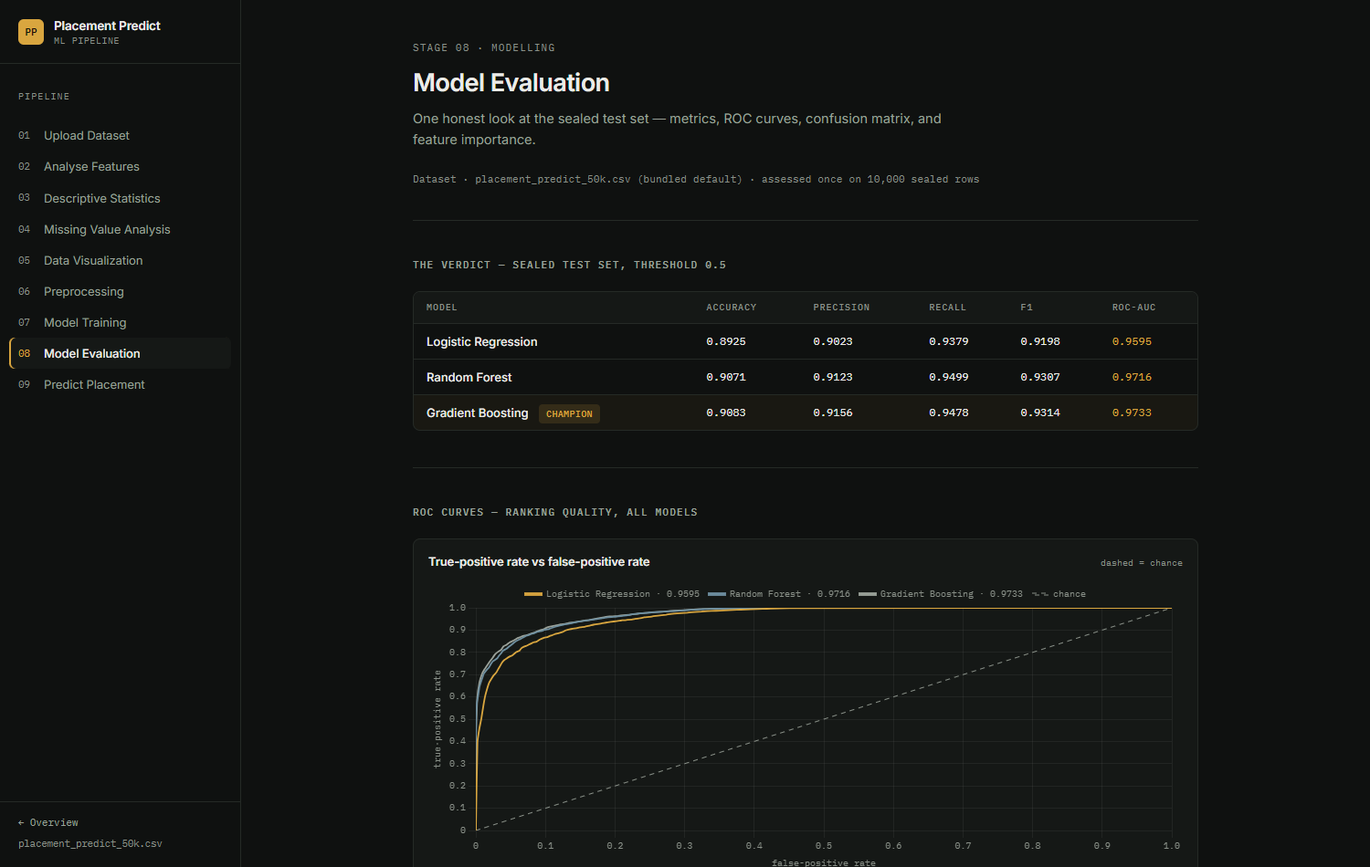
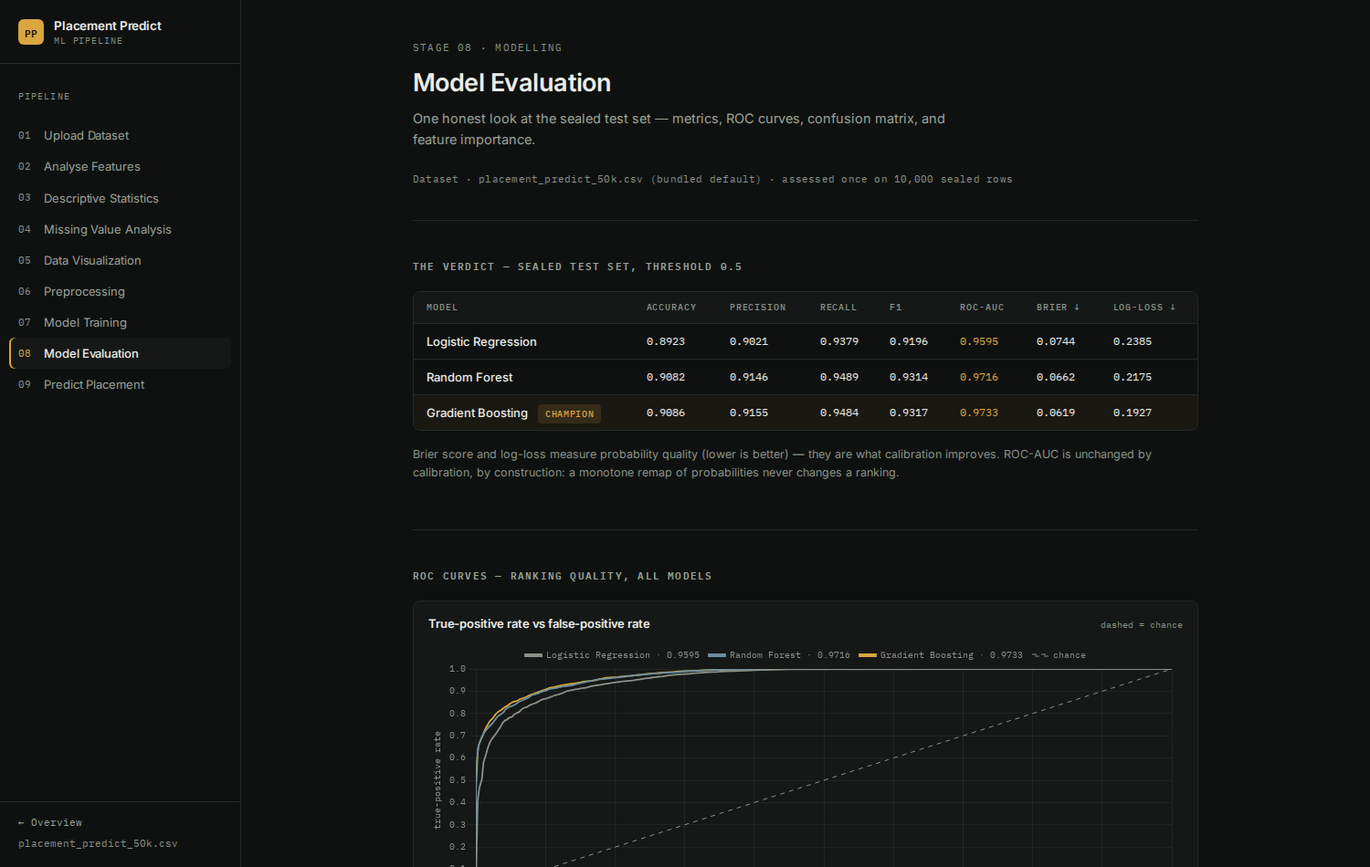
chore: refresh generated visuals [skip ci]

diff --git a/docs/train.html b/docs/train.html
@@ -237,7 +237,7 @@
               <td class="num">0.0744</td>
               <td class="num">0.2385</td>
               <td class="num dim">0.9638 ± 0.0022</td>
-              <td class="num dim">0.56s</td>
+              <td class="num dim">0.41s</td>
             </tr>
             
             <tr class="">
@@ -253,7 +253,7 @@
               <td class="num">0.0662</td>
               <td class="num">0.2175</td>
               <td class="num dim">0.9725 ± 0.0023</td>
-              <td class="num dim">27.82s</td>
+              <td class="num dim">6.44s</td>
             </tr>
             
             <tr class="champion-row">
@@ -269,7 +269,7 @@
               <td class="num">0.0619</td>
               <td class="num">0.1927</td>
               <td class="num dim">0.9726 ± 0.0025</td>
-              <td class="num dim">6.96s</td>
+              <td class="num dim">0.78s</td>
             </tr>
             
           </tbody>
@@ -338,7 +338,7 @@
     cvRows: 12000,
     split: {"test": 10000, "test_rate": 65.7, "train": 40000, "train_rate": 65.7},
     selectedKey: null,
-    models: [{"calibration": "Platt sigmoid \u00b7 3-fold out-of-fold", "confusion": {"fn": 408, "fp": 669, "tn": 2760, "tp": 6163}, "cv_auc_mean": 0.9638, "cv_auc_std": 0.0022, "key": "logistic_regression", "metrics": {"accuracy": 0.8923, "brier": 0.0744, "f1": 0.9196, "log_loss": 0.2385, "precision": 0.9021, "recall": 0.9379, "roc_auc": 0.9595}, "name": "Logistic Regression", "needs_scaling": true, "note": "interpretable linear baseline \u2014 the bar to beat", "reliability": {"bin_mid": [0.0201, 0.1478, 0.2486, 0.3511, 0.4483, 0.5513, 0.6513, 0.7508, 0.8509, 0.9853], "frac_pos": [0.0067, 0.1729, 0.268, 0.3833, 0.4352, 0.5244, 0.6493, 0.7532, 0.8605, 0.9798]}, "roc": {"fpr": [0.0, 0.0026, 0.0055, 0.0085, 0.0111, 0.014, 0.0169, 0.0198, 0.0227, 0.0262, 0.0295, 0.0324, 0.0353, 0.0382, 0.0414, 0.0449, 0.0481, 0.0525, 0.0551, 0.0583, 0.0624, 0.0656, 0.0685, 0.0726, 0.0761, 0.0799, 0.0866, 0.0913, 0.0942, 0.0983, 0.1024, 0.1053, 0.1085, 0.1123, 0.1161, 0.1199, 0.1239, 0.1272, 0.1309, 0.1344, 0.1403, 0.1464, 0.1496, 0.1554, 0.1598, 0.1645, 0.1677, 0.1726, 0.1776, 0.1837, 0.1887, 0.1969, 0.2053, 0.2106, 0.2181, 0.2248, 0.2304, 0.2368, 0.2426, 0.2499, 0.2552, 0.2625, 0.268, 0.2735, 0.2797, 0.2858, 0.294, 0.3077, 0.3138, 0.3243, 0.3342, 0.3444, 0.3529, 0.3677, 0.3785, 0.394, 0.4092, 0.4237, 0.45, 1.0], "tpr": [0.0, 0.3969, 0.4707, 0.5025, 0.582, 0.6092, 0.6427, 0.6667, 0.6847, 0.6982, 0.7122, 0.7256, 0.7396, 0.7559, 0.7676, 0.7729, 0.7812, 0.7863, 0.7955, 0.8011, 0.8073, 0.818, 0.8248, 0.8279, 0.835, 0.8404, 0.848, 0.856, 0.8614, 0.8652, 0.8684, 0.8717, 0.8758, 0.8801, 0.8834, 0.8872, 0.8909, 0.8953, 0.9006, 0.9029, 0.9067, 0.9093, 0.912, 0.9142, 0.9169, 0.9212, 0.9235, 0.9262, 0.9282, 0.9317, 0.9341, 0.9379, 0.9416, 0.944, 0.946, 0.9481, 0.9513, 0.9533, 0.9574, 0.9595, 0.9623, 0.9651, 0.9668, 0.9693, 0.972, 0.9741, 0.9763, 0.9784, 0.981, 0.9828, 0.9851, 0.9865, 0.9883, 0.99, 0.9916, 0.9933, 0.995, 0.9965, 0.9986, 1.0]}, "settings": "max_iter 2000 \u00b7 lbfgs", "train_time": 0.56}, {"calibration": "Platt sigmoid \u00b7 3-fold out-of-fold", "confusion": {"fn": 336, "fp": 582, "tn": 2847, "tp": 6235}, "cv_auc_mean": 0.9725, "cv_auc_std": 0.0023, "key": "random_forest", "metrics": {"accuracy": 0.9082, "brier": 0.0662, "f1": 0.9314, "log_loss": 0.2175, "precision": 0.9146, "recall": 0.9489, "roc_auc": 0.9716}, "name": "Random Forest", "needs_scaling": false, "note": "deep decorrelated trees \u2014 averages away variance", "reliability": {"bin_mid": [0.0279, 0.1492, 0.2506, 0.3483, 0.4545, 0.5561, 0.6518, 0.7522, 0.8595, 0.9688], "frac_pos": [0.0246, 0.2763, 0.3372, 0.4046, 0.4309, 0.5637, 0.5362, 0.6286, 0.7636, 0.9723]}, "roc": {"fpr": [0.0, 0.0003, 0.0003, 0.0017, 0.0029, 0.0044, 0.007, 0.0096, 0.0131, 0.0181, 0.023, 0.0262, 0.028, 0.0312, 0.0356, 0.0402, 0.0423, 0.0464, 0.054, 0.0589, 0.0627, 0.0682, 0.0729, 0.0749, 0.0782, 0.0817, 0.0887, 0.093, 0.0994, 0.105, 0.112, 0.119, 0.1257, 0.1336, 0.1388, 0.1438, 0.1505, 0.1572, 0.1639, 0.1697, 0.1764, 0.1861, 0.1919, 0.1998, 0.2071, 0.2135, 0.2164, 0.2228, 0.2298, 0.2374, 0.2438, 0.2488, 0.2555, 0.2631, 0.2698, 0.2779, 0.284, 0.2861, 0.2925, 0.3001, 0.3071, 0.3138, 0.319, 0.3269, 0.3351, 0.3424, 0.3523, 0.3605, 0.3663, 0.3782, 0.3873, 0.3952, 0.4071, 0.4197, 0.4325, 0.4447, 0.4579, 0.48, 0.5244, 1.0], "tpr": [0.0, 0.4518, 0.5494, 0.5958, 0.6294, 0.6588, 0.6832, 0.7014, 0.7198, 0.7375, 0.7524, 0.7656, 0.7729, 0.7863, 0.7958, 0.8072, 0.8168, 0.8277, 0.8361, 0.8452, 0.8534, 0.8609, 0.867, 0.8699, 0.8775, 0.8843, 0.8895, 0.8959, 0.9021, 0.9087, 0.9128, 0.9169, 0.9213, 0.9247, 0.9271, 0.9314, 0.9361, 0.9414, 0.9451, 0.9489, 0.9536, 0.9551, 0.9575, 0.9607, 0.9629, 0.9648, 0.9667, 0.9693, 0.9714, 0.9738, 0.976, 0.9769, 0.9795, 0.9802, 0.9828, 0.9839, 0.9851, 0.9855, 0.9866, 0.9887, 0.99, 0.9909, 0.9918, 0.9933, 0.9948, 0.9957, 0.9962, 0.997, 0.9977, 0.9982, 0.9985, 0.9985, 0.9988, 0.9991, 0.9995, 0.9997, 0.9997, 1.0, 1.0, 1.0]}, "settings": "150 trees \u00b7 n_jobs 2", "train_time": 27.82}, {"calibration": "Platt sigmoid \u00b7 3-fold out-of-fold", "confusion": {"fn": 339, "fp": 575, "tn": 2854, "tp": 6232}, "cv_auc_mean": 0.9726, "cv_auc_std": 0.0025, "key": "gradient_boosting", "metrics": {"accuracy": 0.9086, "brier": 0.0619, "f1": 0.9317, "log_loss": 0.1927, "precision": 0.9155, "recall": 0.9484, "roc_auc": 0.9733}, "name": "Gradient Boosting", "needs_scaling": false, "note": "shallow sequential trees \u2014 corrects residual bias", "reliability": {"bin_mid": [0.0125, 0.1469, 0.2532, 0.3522, 0.4497, 0.5521, 0.6508, 0.7553, 0.8507, 0.9876], "frac_pos": [0.0087, 0.1618, 0.2822, 0.3726, 0.43, 0.4884, 0.6481, 0.7146, 0.8561, 0.9877]}, "roc": {"fpr": [0.0, 0.0, 0.0, 0.0, 0.0, 0.0, 0.0, 0.0, 0.0, 0.0, 0.0, 0.0, 0.0, 0.0, 0.0, 0.0032, 0.0064, 0.0099, 0.0131, 0.0166, 0.0204, 0.0245, 0.0277, 0.0318, 0.0356, 0.04, 0.044, 0.0478, 0.0513, 0.0557, 0.0601, 0.0633, 0.0694, 0.0735, 0.0779, 0.0834, 0.0878, 0.0927, 0.0965, 0.1024, 0.1062, 0.1132, 0.1178, 0.1239, 0.1315, 0.1385, 0.1444, 0.1508, 0.1575, 0.1648, 0.1724, 0.1773, 0.1826, 0.1913, 0.2044, 0.212, 0.2237, 0.2313, 0.2377, 0.2435, 0.2546, 0.2622, 0.2686, 0.2811, 0.2908, 0.3085, 0.3255, 0.3465, 0.3739, 0.4433, 0.6655, 0.7343, 0.7991, 0.8434, 0.8714, 0.8962, 0.923, 0.9536, 0.974, 1.0], "tpr": [0.0, 0.0173, 0.0321, 0.0479, 0.058, 0.0706, 0.0899, 0.1032, 0.1182, 0.1354, 0.1558, 0.1765, 0.217, 0.2887, 0.4497, 0.6454, 0.6763, 0.7013, 0.727, 0.7468, 0.7664, 0.7793, 0.7935, 0.8067, 0.8139, 0.8245, 0.8327, 0.8401, 0.8484, 0.8538, 0.8577, 0.8646, 0.8708, 0.876, 0.883, 0.8888, 0.8944, 0.8996, 0.9044, 0.9101, 0.9157, 0.9187, 0.9228, 0.927, 0.9306, 0.9341, 0.9362, 0.9405, 0.944, 0.9463, 0.9496, 0.9545, 0.9578, 0.9612, 0.9638, 0.9671, 0.9697, 0.9723, 0.9743, 0.9773, 0.9801, 0.982, 0.984, 0.986, 0.989, 0.9915, 0.9938, 0.9959, 0.9977, 0.9995, 1.0, 1.0, 1.0, 1.0, 1.0, 1.0, 1.0, 1.0, 1.0, 1.0]}, "settings": "default depth \u00b7 lr 0.1", "train_time": 6.96}]
+    models: [{"calibration": "Platt sigmoid \u00b7 3-fold out-of-fold", "confusion": {"fn": 408, "fp": 669, "tn": 2760, "tp": 6163}, "cv_auc_mean": 0.9638, "cv_auc_std": 0.0022, "key": "logistic_regression", "metrics": {"accuracy": 0.8923, "brier": 0.0744, "f1": 0.9196, "log_loss": 0.2385, "precision": 0.9021, "recall": 0.9379, "roc_auc": 0.9595}, "name": "Logistic Regression", "needs_scaling": true, "note": "interpretable linear baseline \u2014 the bar to beat", "reliability": {"bin_mid": [0.0201, 0.1478, 0.2486, 0.3511, 0.4483, 0.5513, 0.6513, 0.7508, 0.8509, 0.9853], "frac_pos": [0.0067, 0.1729, 0.268, 0.3833, 0.4352, 0.5244, 0.6493, 0.7532, 0.8605, 0.9798]}, "roc": {"fpr": [0.0, 0.0026, 0.0055, 0.0085, 0.0111, 0.014, 0.0169, 0.0198, 0.0227, 0.0262, 0.0295, 0.0324, 0.0353, 0.0382, 0.0414, 0.0449, 0.0481, 0.0525, 0.0551, 0.0583, 0.0624, 0.0656, 0.0685, 0.0726, 0.0761, 0.0799, 0.0866, 0.0913, 0.0942, 0.0983, 0.1024, 0.1053, 0.1085, 0.1123, 0.1161, 0.1199, 0.1239, 0.1272, 0.1309, 0.1344, 0.1403, 0.1464, 0.1496, 0.1554, 0.1598, 0.1645, 0.1677, 0.1726, 0.1776, 0.1837, 0.1887, 0.1969, 0.2053, 0.2106, 0.2181, 0.2248, 0.2304, 0.2368, 0.2426, 0.2499, 0.2552, 0.2625, 0.268, 0.2735, 0.2797, 0.2858, 0.294, 0.3077, 0.3138, 0.3243, 0.3342, 0.3444, 0.3529, 0.3677, 0.3785, 0.394, 0.4092, 0.4237, 0.45, 1.0], "tpr": [0.0, 0.3969, 0.4707, 0.5025, 0.582, 0.6092, 0.6427, 0.6667, 0.6847, 0.6982, 0.7122, 0.7256, 0.7396, 0.7559, 0.7676, 0.7729, 0.7812, 0.7863, 0.7955, 0.8011, 0.8073, 0.818, 0.8248, 0.8279, 0.835, 0.8404, 0.848, 0.856, 0.8614, 0.8652, 0.8684, 0.8717, 0.8758, 0.8801, 0.8834, 0.8872, 0.8909, 0.8953, 0.9006, 0.9029, 0.9067, 0.9093, 0.912, 0.9142, 0.9169, 0.9212, 0.9235, 0.9262, 0.9282, 0.9317, 0.9341, 0.9379, 0.9416, 0.944, 0.946, 0.9481, 0.9513, 0.9533, 0.9574, 0.9595, 0.9623, 0.9651, 0.9668, 0.9693, 0.972, 0.9741, 0.9763, 0.9784, 0.981, 0.9828, 0.9851, 0.9865, 0.9883, 0.99, 0.9916, 0.9933, 0.995, 0.9965, 0.9986, 1.0]}, "settings": "max_iter 2000 \u00b7 lbfgs", "train_time": 0.41}, {"calibration": "Platt sigmoid \u00b7 3-fold out-of-fold", "confusion": {"fn": 336, "fp": 582, "tn": 2847, "tp": 6235}, "cv_auc_mean": 0.9725, "cv_auc_std": 0.0023, "key": "random_forest", "metrics": {"accuracy": 0.9082, "brier": 0.0662, "f1": 0.9314, "log_loss": 0.2175, "precision": 0.9146, "recall": 0.9489, "roc_auc": 0.9716}, "name": "Random Forest", "needs_scaling": false, "note": "deep decorrelated trees \u2014 averages away variance", "reliability": {"bin_mid": [0.0279, 0.1492, 0.2506, 0.3483, 0.4545, 0.5561, 0.6518, 0.7522, 0.8595, 0.9688], "frac_pos": [0.0246, 0.2763, 0.3372, 0.4046, 0.4309, 0.5637, 0.5362, 0.6286, 0.7636, 0.9723]}, "roc": {"fpr": [0.0, 0.0003, 0.0003, 0.0017, 0.0029, 0.0044, 0.007, 0.0096, 0.0131, 0.0181, 0.023, 0.0262, 0.028, 0.0312, 0.0356, 0.0402, 0.0423, 0.0464, 0.054, 0.0589, 0.0627, 0.0682, 0.0729, 0.0749, 0.0782, 0.0817, 0.0887, 0.093, 0.0994, 0.105, 0.112, 0.119, 0.1257, 0.1336, 0.1388, 0.1438, 0.1505, 0.1572, 0.1639, 0.1697, 0.1764, 0.1861, 0.1919, 0.1998, 0.2071, 0.2135, 0.2164, 0.2228, 0.2298, 0.2374, 0.2438, 0.2488, 0.2555, 0.2631, 0.2698, 0.2779, 0.284, 0.2861, 0.2925, 0.3001, 0.3071, 0.3138, 0.319, 0.3269, 0.3351, 0.3424, 0.3523, 0.3605, 0.3663, 0.3782, 0.3873, 0.3952, 0.4071, 0.4197, 0.4325, 0.4447, 0.4579, 0.48, 0.5244, 1.0], "tpr": [0.0, 0.4518, 0.5494, 0.5958, 0.6294, 0.6588, 0.6832, 0.7014, 0.7198, 0.7375, 0.7524, 0.7656, 0.7729, 0.7863, 0.7958, 0.8072, 0.8168, 0.8277, 0.8361, 0.8452, 0.8534, 0.8609, 0.867, 0.8699, 0.8775, 0.8843, 0.8895, 0.8959, 0.9021, 0.9087, 0.9128, 0.9169, 0.9213, 0.9247, 0.9271, 0.9314, 0.9361, 0.9414, 0.9451, 0.9489, 0.9536, 0.9551, 0.9575, 0.9607, 0.9629, 0.9648, 0.9667, 0.9693, 0.9714, 0.9738, 0.976, 0.9769, 0.9795, 0.9802, 0.9828, 0.9839, 0.9851, 0.9855, 0.9866, 0.9887, 0.99, 0.9909, 0.9918, 0.9933, 0.9948, 0.9957, 0.9962, 0.997, 0.9977, 0.9982, 0.9985, 0.9985, 0.9988, 0.9991, 0.9995, 0.9997, 0.9997, 1.0, 1.0, 1.0]}, "settings": "150 trees \u00b7 n_jobs 2", "train_time": 6.44}, {"calibration": "Platt sigmoid \u00b7 3-fold out-of-fold", "confusion": {"fn": 339, "fp": 575, "tn": 2854, "tp": 6232}, "cv_auc_mean": 0.9726, "cv_auc_std": 0.0025, "key": "gradient_boosting", "metrics": {"accuracy": 0.9086, "brier": 0.0619, "f1": 0.9317, "log_loss": 0.1927, "precision": 0.9155, "recall": 0.9484, "roc_auc": 0.9733}, "name": "Gradient Boosting", "needs_scaling": false, "note": "shallow sequential trees \u2014 corrects residual bias", "reliability": {"bin_mid": [0.0125, 0.1469, 0.2532, 0.3522, 0.4497, 0.5521, 0.6508, 0.7553, 0.8507, 0.9876], "frac_pos": [0.0087, 0.1618, 0.2822, 0.3726, 0.43, 0.4884, 0.6481, 0.7146, 0.8561, 0.9877]}, "roc": {"fpr": [0.0, 0.0, 0.0, 0.0, 0.0, 0.0, 0.0, 0.0, 0.0, 0.0, 0.0, 0.0, 0.0, 0.0, 0.0, 0.0032, 0.0064, 0.0099, 0.0131, 0.0166, 0.0204, 0.0245, 0.0277, 0.0318, 0.0356, 0.04, 0.044, 0.0478, 0.0513, 0.0557, 0.0601, 0.0633, 0.0694, 0.0735, 0.0779, 0.0834, 0.0878, 0.0927, 0.0965, 0.1024, 0.1062, 0.1132, 0.1178, 0.1239, 0.1315, 0.1385, 0.1444, 0.1508, 0.1575, 0.1648, 0.1724, 0.1773, 0.1826, 0.1913, 0.2044, 0.212, 0.2237, 0.2313, 0.2377, 0.2435, 0.2546, 0.2622, 0.2686, 0.2811, 0.2908, 0.3085, 0.3255, 0.3465, 0.3739, 0.4433, 0.6655, 0.7343, 0.7991, 0.8434, 0.8714, 0.8962, 0.923, 0.9536, 0.974, 1.0], "tpr": [0.0, 0.0173, 0.0321, 0.0479, 0.058, 0.0706, 0.0899, 0.1032, 0.1182, 0.1354, 0.1558, 0.1765, 0.217, 0.2887, 0.4497, 0.6454, 0.6763, 0.7013, 0.727, 0.7468, 0.7664, 0.7793, 0.7935, 0.8067, 0.8139, 0.8245, 0.8327, 0.8401, 0.8484, 0.8538, 0.8577, 0.8646, 0.8708, 0.876, 0.883, 0.8888, 0.8944, 0.8996, 0.9044, 0.9101, 0.9157, 0.9187, 0.9228, 0.927, 0.9306, 0.9341, 0.9362, 0.9405, 0.944, 0.9463, 0.9496, 0.9545, 0.9578, 0.9612, 0.9638, 0.9671, 0.9697, 0.9723, 0.9743, 0.9773, 0.9801, 0.982, 0.984, 0.986, 0.989, 0.9915, 0.9938, 0.9959, 0.9977, 0.9995, 1.0, 1.0, 1.0, 1.0, 1.0, 1.0, 1.0, 1.0, 1.0, 1.0]}, "settings": "default depth \u00b7 lr 0.1", "train_time": 0.78}]
   };
 </script>
 <script src="static/js/charts.js"></script>

diff --git a/docs/evaluate.html b/docs/evaluate.html
@@ -297,7 +297,7 @@
 <script src="https://cdn.jsdelivr.net/npm/chart.js@4.4.3/dist/chart.umd.min.js"></script>
 <script>
   window.EDA = {
-    models: [{"calibration": "Platt sigmoid \u00b7 3-fold out-of-fold", "confusion": {"fn": 408, "fp": 669, "tn": 2760, "tp": 6163}, "cv_auc_mean": 0.9638, "cv_auc_std": 0.0022, "key": "logistic_regression", "metrics": {"accuracy": 0.8923, "brier": 0.0744, "f1": 0.9196, "log_loss": 0.2385, "precision": 0.9021, "recall": 0.9379, "roc_auc": 0.9595}, "name": "Logistic Regression", "needs_scaling": true, "note": "interpretable linear baseline \u2014 the bar to beat", "reliability": {"bin_mid": [0.0201, 0.1478, 0.2486, 0.3511, 0.4483, 0.5513, 0.6513, 0.7508, 0.8509, 0.9853], "frac_pos": [0.0067, 0.1729, 0.268, 0.3833, 0.4352, 0.5244, 0.6493, 0.7532, 0.8605, 0.9798]}, "roc": {"fpr": [0.0, 0.0026, 0.0055, 0.0085, 0.0111, 0.014, 0.0169, 0.0198, 0.0227, 0.0262, 0.0295, 0.0324, 0.0353, 0.0382, 0.0414, 0.0449, 0.0481, 0.0525, 0.0551, 0.0583, 0.0624, 0.0656, 0.0685, 0.0726, 0.0761, 0.0799, 0.0866, 0.0913, 0.0942, 0.0983, 0.1024, 0.1053, 0.1085, 0.1123, 0.1161, 0.1199, 0.1239, 0.1272, 0.1309, 0.1344, 0.1403, 0.1464, 0.1496, 0.1554, 0.1598, 0.1645, 0.1677, 0.1726, 0.1776, 0.1837, 0.1887, 0.1969, 0.2053, 0.2106, 0.2181, 0.2248, 0.2304, 0.2368, 0.2426, 0.2499, 0.2552, 0.2625, 0.268, 0.2735, 0.2797, 0.2858, 0.294, 0.3077, 0.3138, 0.3243, 0.3342, 0.3444, 0.3529, 0.3677, 0.3785, 0.394, 0.4092, 0.4237, 0.45, 1.0], "tpr": [0.0, 0.3969, 0.4707, 0.5025, 0.582, 0.6092, 0.6427, 0.6667, 0.6847, 0.6982, 0.7122, 0.7256, 0.7396, 0.7559, 0.7676, 0.7729, 0.7812, 0.7863, 0.7955, 0.8011, 0.8073, 0.818, 0.8248, 0.8279, 0.835, 0.8404, 0.848, 0.856, 0.8614, 0.8652, 0.8684, 0.8717, 0.8758, 0.8801, 0.8834, 0.8872, 0.8909, 0.8953, 0.9006, 0.9029, 0.9067, 0.9093, 0.912, 0.9142, 0.9169, 0.9212, 0.9235, 0.9262, 0.9282, 0.9317, 0.9341, 0.9379, 0.9416, 0.944, 0.946, 0.9481, 0.9513, 0.9533, 0.9574, 0.9595, 0.9623, 0.9651, 0.9668, 0.9693, 0.972, 0.9741, 0.9763, 0.9784, 0.981, 0.9828, 0.9851, 0.9865, 0.9883, 0.99, 0.9916, 0.9933, 0.995, 0.9965, 0.9986, 1.0]}, "settings": "max_iter 2000 \u00b7 lbfgs", "train_time": 0.56}, {"calibration": "Platt sigmoid \u00b7 3-fold out-of-fold", "confusion": {"fn": 336, "fp": 582, "tn": 2847, "tp": 6235}, "cv_auc_mean": 0.9725, "cv_auc_std": 0.0023, "key": "random_forest", "metrics": {"accuracy": 0.9082, "brier": 0.0662, "f1": 0.9314, "log_loss": 0.2175, "precision": 0.9146, "recall": 0.9489, "roc_auc": 0.9716}, "name": "Random Forest", "needs_scaling": false, "note": "deep decorrelated trees \u2014 averages away variance", "reliability": {"bin_mid": [0.0279, 0.1492, 0.2506, 0.3483, 0.4545, 0.5561, 0.6518, 0.7522, 0.8595, 0.9688], "frac_pos": [0.0246, 0.2763, 0.3372, 0.4046, 0.4309, 0.5637, 0.5362, 0.6286, 0.7636, 0.9723]}, "roc": {"fpr": [0.0, 0.0003, 0.0003, 0.0017, 0.0029, 0.0044, 0.007, 0.0096, 0.0131, 0.0181, 0.023, 0.0262, 0.028, 0.0312, 0.0356, 0.0402, 0.0423, 0.0464, 0.054, 0.0589, 0.0627, 0.0682, 0.0729, 0.0749, 0.0782, 0.0817, 0.0887, 0.093, 0.0994, 0.105, 0.112, 0.119, 0.1257, 0.1336, 0.1388, 0.1438, 0.1505, 0.1572, 0.1639, 0.1697, 0.1764, 0.1861, 0.1919, 0.1998, 0.2071, 0.2135, 0.2164, 0.2228, 0.2298, 0.2374, 0.2438, 0.2488, 0.2555, 0.2631, 0.2698, 0.2779, 0.284, 0.2861, 0.2925, 0.3001, 0.3071, 0.3138, 0.319, 0.3269, 0.3351, 0.3424, 0.3523, 0.3605, 0.3663, 0.3782, 0.3873, 0.3952, 0.4071, 0.4197, 0.4325, 0.4447, 0.4579, 0.48, 0.5244, 1.0], "tpr": [0.0, 0.4518, 0.5494, 0.5958, 0.6294, 0.6588, 0.6832, 0.7014, 0.7198, 0.7375, 0.7524, 0.7656, 0.7729, 0.7863, 0.7958, 0.8072, 0.8168, 0.8277, 0.8361, 0.8452, 0.8534, 0.8609, 0.867, 0.8699, 0.8775, 0.8843, 0.8895, 0.8959, 0.9021, 0.9087, 0.9128, 0.9169, 0.9213, 0.9247, 0.9271, 0.9314, 0.9361, 0.9414, 0.9451, 0.9489, 0.9536, 0.9551, 0.9575, 0.9607, 0.9629, 0.9648, 0.9667, 0.9693, 0.9714, 0.9738, 0.976, 0.9769, 0.9795, 0.9802, 0.9828, 0.9839, 0.9851, 0.9855, 0.9866, 0.9887, 0.99, 0.9909, 0.9918, 0.9933, 0.9948, 0.9957, 0.9962, 0.997, 0.9977, 0.9982, 0.9985, 0.9985, 0.9988, 0.9991, 0.9995, 0.9997, 0.9997, 1.0, 1.0, 1.0]}, "settings": "150 trees \u00b7 n_jobs 2", "train_time": 27.82}, {"calibration": "Platt sigmoid \u00b7 3-fold out-of-fold", "confusion": {"fn": 339, "fp": 575, "tn": 2854, "tp": 6232}, "cv_auc_mean": 0.9726, "cv_auc_std": 0.0025, "key": "gradient_boosting", "metrics": {"accuracy": 0.9086, "brier": 0.0619, "f1": 0.9317, "log_loss": 0.1927, "precision": 0.9155, "recall": 0.9484, "roc_auc": 0.9733}, "name": "Gradient Boosting", "needs_scaling": false, "note": "shallow sequential trees \u2014 corrects residual bias", "reliability": {"bin_mid": [0.0125, 0.1469, 0.2532, 0.3522, 0.4497, 0.5521, 0.6508, 0.7553, 0.8507, 0.9876], "frac_pos": [0.0087, 0.1618, 0.2822, 0.3726, 0.43, 0.4884, 0.6481, 0.7146, 0.8561, 0.9877]}, "roc": {"fpr": [0.0, 0.0, 0.0, 0.0, 0.0, 0.0, 0.0, 0.0, 0.0, 0.0, 0.0, 0.0, 0.0, 0.0, 0.0, 0.0032, 0.0064, 0.0099, 0.0131, 0.0166, 0.0204, 0.0245, 0.0277, 0.0318, 0.0356, 0.04, 0.044, 0.0478, 0.0513, 0.0557, 0.0601, 0.0633, 0.0694, 0.0735, 0.0779, 0.0834, 0.0878, 0.0927, 0.0965, 0.1024, 0.1062, 0.1132, 0.1178, 0.1239, 0.1315, 0.1385, 0.1444, 0.1508, 0.1575, 0.1648, 0.1724, 0.1773, 0.1826, 0.1913, 0.2044, 0.212, 0.2237, 0.2313, 0.2377, 0.2435, 0.2546, 0.2622, 0.2686, 0.2811, 0.2908, 0.3085, 0.3255, 0.3465, 0.3739, 0.4433, 0.6655, 0.7343, 0.7991, 0.8434, 0.8714, 0.8962, 0.923, 0.9536, 0.974, 1.0], "tpr": [0.0, 0.0173, 0.0321, 0.0479, 0.058, 0.0706, 0.0899, 0.1032, 0.1182, 0.1354, 0.1558, 0.1765, 0.217, 0.2887, 0.4497, 0.6454, 0.6763, 0.7013, 0.727, 0.7468, 0.7664, 0.7793, 0.7935, 0.8067, 0.8139, 0.8245, 0.8327, 0.8401, 0.8484, 0.8538, 0.8577, 0.8646, 0.8708, 0.876, 0.883, 0.8888, 0.8944, 0.8996, 0.9044, 0.9101, 0.9157, 0.9187, 0.9228, 0.927, 0.9306, 0.9341, 0.9362, 0.9405, 0.944, 0.9463, 0.9496, 0.9545, 0.9578, 0.9612, 0.9638, 0.9671, 0.9697, 0.9723, 0.9743, 0.9773, 0.9801, 0.982, 0.984, 0.986, 0.989, 0.9915, 0.9938, 0.9959, 0.9977, 0.9995, 1.0, 1.0, 1.0, 1.0, 1.0, 1.0, 1.0, 1.0, 1.0, 1.0]}, "settings": "default depth \u00b7 lr 0.1", "train_time": 6.96}],
+    models: [{"calibration": "Platt sigmoid \u00b7 3-fold out-of-fold", "confusion": {"fn": 408, "fp": 669, "tn": 2760, "tp": 6163}, "cv_auc_mean": 0.9638, "cv_auc_std": 0.0022, "key": "logistic_regression", "metrics": {"accuracy": 0.8923, "brier": 0.0744, "f1": 0.9196, "log_loss": 0.2385, "precision": 0.9021, "recall": 0.9379, "roc_auc": 0.9595}, "name": "Logistic Regression", "needs_scaling": true, "note": "interpretable linear baseline \u2014 the bar to beat", "reliability": {"bin_mid": [0.0201, 0.1478, 0.2486, 0.3511, 0.4483, 0.5513, 0.6513, 0.7508, 0.8509, 0.9853], "frac_pos": [0.0067, 0.1729, 0.268, 0.3833, 0.4352, 0.5244, 0.6493, 0.7532, 0.8605, 0.9798]}, "roc": {"fpr": [0.0, 0.0026, 0.0055, 0.0085, 0.0111, 0.014, 0.0169, 0.0198, 0.0227, 0.0262, 0.0295, 0.0324, 0.0353, 0.0382, 0.0414, 0.0449, 0.0481, 0.0525, 0.0551, 0.0583, 0.0624, 0.0656, 0.0685, 0.0726, 0.0761, 0.0799, 0.0866, 0.0913, 0.0942, 0.0983, 0.1024, 0.1053, 0.1085, 0.1123, 0.1161, 0.1199, 0.1239, 0.1272, 0.1309, 0.1344, 0.1403, 0.1464, 0.1496, 0.1554, 0.1598, 0.1645, 0.1677, 0.1726, 0.1776, 0.1837, 0.1887, 0.1969, 0.2053, 0.2106, 0.2181, 0.2248, 0.2304, 0.2368, 0.2426, 0.2499, 0.2552, 0.2625, 0.268, 0.2735, 0.2797, 0.2858, 0.294, 0.3077, 0.3138, 0.3243, 0.3342, 0.3444, 0.3529, 0.3677, 0.3785, 0.394, 0.4092, 0.4237, 0.45, 1.0], "tpr": [0.0, 0.3969, 0.4707, 0.5025, 0.582, 0.6092, 0.6427, 0.6667, 0.6847, 0.6982, 0.7122, 0.7256, 0.7396, 0.7559, 0.7676, 0.7729, 0.7812, 0.7863, 0.7955, 0.8011, 0.8073, 0.818, 0.8248, 0.8279, 0.835, 0.8404, 0.848, 0.856, 0.8614, 0.8652, 0.8684, 0.8717, 0.8758, 0.8801, 0.8834, 0.8872, 0.8909, 0.8953, 0.9006, 0.9029, 0.9067, 0.9093, 0.912, 0.9142, 0.9169, 0.9212, 0.9235, 0.9262, 0.9282, 0.9317, 0.9341, 0.9379, 0.9416, 0.944, 0.946, 0.9481, 0.9513, 0.9533, 0.9574, 0.9595, 0.9623, 0.9651, 0.9668, 0.9693, 0.972, 0.9741, 0.9763, 0.9784, 0.981, 0.9828, 0.9851, 0.9865, 0.9883, 0.99, 0.9916, 0.9933, 0.995, 0.9965, 0.9986, 1.0]}, "settings": "max_iter 2000 \u00b7 lbfgs", "train_time": 0.41}, {"calibration": "Platt sigmoid \u00b7 3-fold out-of-fold", "confusion": {"fn": 336, "fp": 582, "tn": 2847, "tp": 6235}, "cv_auc_mean": 0.9725, "cv_auc_std": 0.0023, "key": "random_forest", "metrics": {"accuracy": 0.9082, "brier": 0.0662, "f1": 0.9314, "log_loss": 0.2175, "precision": 0.9146, "recall": 0.9489, "roc_auc": 0.9716}, "name": "Random Forest", "needs_scaling": false, "note": "deep decorrelated trees \u2014 averages away variance", "reliability": {"bin_mid": [0.0279, 0.1492, 0.2506, 0.3483, 0.4545, 0.5561, 0.6518, 0.7522, 0.8595, 0.9688], "frac_pos": [0.0246, 0.2763, 0.3372, 0.4046, 0.4309, 0.5637, 0.5362, 0.6286, 0.7636, 0.9723]}, "roc": {"fpr": [0.0, 0.0003, 0.0003, 0.0017, 0.0029, 0.0044, 0.007, 0.0096, 0.0131, 0.0181, 0.023, 0.0262, 0.028, 0.0312, 0.0356, 0.0402, 0.0423, 0.0464, 0.054, 0.0589, 0.0627, 0.0682, 0.0729, 0.0749, 0.0782, 0.0817, 0.0887, 0.093, 0.0994, 0.105, 0.112, 0.119, 0.1257, 0.1336, 0.1388, 0.1438, 0.1505, 0.1572, 0.1639, 0.1697, 0.1764, 0.1861, 0.1919, 0.1998, 0.2071, 0.2135, 0.2164, 0.2228, 0.2298, 0.2374, 0.2438, 0.2488, 0.2555, 0.2631, 0.2698, 0.2779, 0.284, 0.2861, 0.2925, 0.3001, 0.3071, 0.3138, 0.319, 0.3269, 0.3351, 0.3424, 0.3523, 0.3605, 0.3663, 0.3782, 0.3873, 0.3952, 0.4071, 0.4197, 0.4325, 0.4447, 0.4579, 0.48, 0.5244, 1.0], "tpr": [0.0, 0.4518, 0.5494, 0.5958, 0.6294, 0.6588, 0.6832, 0.7014, 0.7198, 0.7375, 0.7524, 0.7656, 0.7729, 0.7863, 0.7958, 0.8072, 0.8168, 0.8277, 0.8361, 0.8452, 0.8534, 0.8609, 0.867, 0.8699, 0.8775, 0.8843, 0.8895, 0.8959, 0.9021, 0.9087, 0.9128, 0.9169, 0.9213, 0.9247, 0.9271, 0.9314, 0.9361, 0.9414, 0.9451, 0.9489, 0.9536, 0.9551, 0.9575, 0.9607, 0.9629, 0.9648, 0.9667, 0.9693, 0.9714, 0.9738, 0.976, 0.9769, 0.9795, 0.9802, 0.9828, 0.9839, 0.9851, 0.9855, 0.9866, 0.9887, 0.99, 0.9909, 0.9918, 0.9933, 0.9948, 0.9957, 0.9962, 0.997, 0.9977, 0.9982, 0.9985, 0.9985, 0.9988, 0.9991, 0.9995, 0.9997, 0.9997, 1.0, 1.0, 1.0]}, "settings": "150 trees \u00b7 n_jobs 2", "train_time": 6.44}, {"calibration": "Platt sigmoid \u00b7 3-fold out-of-fold", "confusion": {"fn": 339, "fp": 575, "tn": 2854, "tp": 6232}, "cv_auc_mean": 0.9726, "cv_auc_std": 0.0025, "key": "gradient_boosting", "metrics": {"accuracy": 0.9086, "brier": 0.0619, "f1": 0.9317, "log_loss": 0.1927, "precision": 0.9155, "recall": 0.9484, "roc_auc": 0.9733}, "name": "Gradient Boosting", "needs_scaling": false, "note": "shallow sequential trees \u2014 corrects residual bias", "reliability": {"bin_mid": [0.0125, 0.1469, 0.2532, 0.3522, 0.4497, 0.5521, 0.6508, 0.7553, 0.8507, 0.9876], "frac_pos": [0.0087, 0.1618, 0.2822, 0.3726, 0.43, 0.4884, 0.6481, 0.7146, 0.8561, 0.9877]}, "roc": {"fpr": [0.0, 0.0, 0.0, 0.0, 0.0, 0.0, 0.0, 0.0, 0.0, 0.0, 0.0, 0.0, 0.0, 0.0, 0.0, 0.0032, 0.0064, 0.0099, 0.0131, 0.0166, 0.0204, 0.0245, 0.0277, 0.0318, 0.0356, 0.04, 0.044, 0.0478, 0.0513, 0.0557, 0.0601, 0.0633, 0.0694, 0.0735, 0.0779, 0.0834, 0.0878, 0.0927, 0.0965, 0.1024, 0.1062, 0.1132, 0.1178, 0.1239, 0.1315, 0.1385, 0.1444, 0.1508, 0.1575, 0.1648, 0.1724, 0.1773, 0.1826, 0.1913, 0.2044, 0.212, 0.2237, 0.2313, 0.2377, 0.2435, 0.2546, 0.2622, 0.2686, 0.2811, 0.2908, 0.3085, 0.3255, 0.3465, 0.3739, 0.4433, 0.6655, 0.7343, 0.7991, 0.8434, 0.8714, 0.8962, 0.923, 0.9536, 0.974, 1.0], "tpr": [0.0, 0.0173, 0.0321, 0.0479, 0.058, 0.0706, 0.0899, 0.1032, 0.1182, 0.1354, 0.1558, 0.1765, 0.217, 0.2887, 0.4497, 0.6454, 0.6763, 0.7013, 0.727, 0.7468, 0.7664, 0.7793, 0.7935, 0.8067, 0.8139, 0.8245, 0.8327, 0.8401, 0.8484, 0.8538, 0.8577, 0.8646, 0.8708, 0.876, 0.883, 0.8888, 0.8944, 0.8996, 0.9044, 0.9101, 0.9157, 0.9187, 0.9228, 0.927, 0.9306, 0.9341, 0.9362, 0.9405, 0.944, 0.9463, 0.9496, 0.9545, 0.9578, 0.9612, 0.9638, 0.9671, 0.9697, 0.9723, 0.9743, 0.9773, 0.9801, 0.982, 0.984, 0.986, 0.989, 0.9915, 0.9938, 0.9959, 0.9977, 0.9995, 1.0, 1.0, 1.0, 1.0, 1.0, 1.0, 1.0, 1.0, 1.0, 1.0]}, "settings": "default depth \u00b7 lr 0.1", "train_time": 0.78}],
     importance: {"labels": ["CGPA", "MockInterviewScore", "CodingTestScore", "AptitudeTestScore", "SoftSkillsRating", "Projects", "AttendancePercent", "Certifications", "Internships", "Workshops", "Publications", "ExtraCurricular"], "values": [0.2967, 0.1653, 0.1321, 0.0853, 0.0838, 0.0675, 0.0581, 0.0443, 0.0325, 0.0185, 0.0091, 0.0069]}
   };
 </script>

diff --git a/docs/static/js/charts.js b/docs/static/js/charts.js
@@ -10,7 +10,193 @@
 // One accent color; red is reserved for "missing / not placed".
 
 (function () {
-  if (typeof Chart === "undefined") return;
+  if (typeof Chart === "undefined") {
+    // Offline/local fallback. The public app used to depend on the jsDelivr
+    // Chart.js CDN; when that CDN was unavailable the canvases stayed blank.
+    // Keep the visual pipeline functional without an external runtime asset.
+    const EDA = window.EDA || {};
+    const C = {
+      text: "#EBECE8", text2: "#9BA29A", text3: "#8A9189",
+      accent: "#D9A63F", danger: "#C65D55", slate: "#6E8FA0",
+      grid: "rgba(235,236,232,.10)", panel: "#1B1F1C"
+    };
+
+    function setup(canvas) {
+      const rect = canvas.getBoundingClientRect();
+      const w = Math.max(320, Math.round(rect.width || 640));
+      const h = Math.max(180, Math.round(rect.height || 320));
+      const dpr = Math.max(1, window.devicePixelRatio || 1);
+      canvas.width = w * dpr;
+      canvas.height = h * dpr;
+      canvas.style.width = w + "px";
+      canvas.style.height = h + "px";
+      const ctx = canvas.getContext("2d");
+      ctx.setTransform(dpr, 0, 0, dpr, 0, 0);
+      ctx.clearRect(0, 0, w, h);
+      ctx.font = "10px 'IBM Plex Mono', ui-monospace, monospace";
+      return { ctx, w, h };
+    }
+
+    function grid(ctx, x, y, w, h, max, horizontal = true) {
+      ctx.strokeStyle = C.grid;
+      ctx.lineWidth = 1;
+      const steps = 5;
+      for (let i = 0; i <= steps; i++) {
+        const p = i / steps;
+        ctx.beginPath();
+        if (horizontal) {
+          ctx.moveTo(x, y + h - p * h);
+          ctx.lineTo(x + w, y + h - p * h);
+        } else {
+          ctx.moveTo(x + p * w, y);
+          ctx.lineTo(x + p * w, y + h);
+        }
+        ctx.stroke();
+        ctx.fillStyle = C.text3;
+        ctx.textAlign = "right";
+        ctx.fillText(String(Math.round(max * p)), x - 8, y + h - p * h + 3);
+      }
+    }
+
+    function xLabels(ctx, labels, x, y, w, max = 8) {
+      const step = Math.max(1, Math.ceil(labels.length / max));
+      ctx.fillStyle = C.text3;
+      ctx.textAlign = "center";
+      labels.forEach((label, i) => {
+        if (i % step !== 0 && i !== labels.length - 1) return;
+        const px = x + (i + .5) * (w / labels.length);
+        const text = String(label);
+        ctx.fillText(text.length > 18 ? text.slice(0, 17) + "…" : text, px, y);
+      });
+    }
+
+    function bar(canvas, labels, values, opts = {}) {
+      const {ctx,w,h} = setup(canvas);
+      const left = opts.left || 62, right = 18, top = 18, bottom = opts.bottom || 52;
+      const cw = w - left - right, ch = h - top - bottom;
+      const max = opts.max ?? Math.max(...values, 1);
+      grid(ctx, left, top, cw, ch, max);
+      const bw = Math.min(opts.maxBar || 48, cw / Math.max(values.length * 1.7, 1));
+      values.forEach((v, i) => {
+        const bh = (Number(v) / max) * ch;
+        const bx = left + (i + .5) * cw / values.length - bw / 2;
+        const by = top + ch - bh;
+        ctx.fillStyle = opts.fill || C.accent;
+        ctx.globalAlpha = .72;
+        ctx.fillRect(bx, by, bw, bh);
+        ctx.globalAlpha = 1;
+        ctx.strokeStyle = opts.stroke || C.accent;
+        ctx.strokeRect(bx + .5, by + .5, Math.max(1,bw-1), Math.max(1,bh-1));
+      });
+      xLabels(ctx, labels, left, top + ch + 28, cw, opts.maxLabels || 7);
+      if (opts.title) {
+        ctx.fillStyle = C.text3; ctx.textAlign = "left";
+        ctx.fillText(opts.title, 8, top + 4);
+      }
+    }
+
+    function horizontal(canvas, labels, values, opts = {}) {
+      const {ctx,w,h} = setup(canvas);
+      const left = 150, right = 28, top = 16, bottom = 18;
+      const cw = w-left-right, ch = h-top-bottom;
+      const maxAbs = opts.max ?? Math.max(...values.map(v => Math.abs(Number(v))), 1);
+      const row = ch / Math.max(values.length,1);
+      values.forEach((v,i) => {
+        const n = Number(v);
+        const bw = Math.abs(n) / maxAbs * (cw/2);
+        const cy = top + (i+.5)*row;
+        const base = left + (n < 0 ? cw/2 : 0);
+        ctx.fillStyle = n < 0 ? C.danger : (opts.fill || C.accent);
+        ctx.globalAlpha=.72; ctx.fillRect(n<0 ? base-bw : base, cy-row*.3, bw, row*.6); ctx.globalAlpha=1;
+        ctx.fillStyle=C.text3; ctx.textAlign="right";
+        const label=String(labels[i]); ctx.fillText(label.length>20?label.slice(0,19)+"…":label,left-10,cy+3);
+      });
+      ctx.strokeStyle=C.grid; ctx.beginPath(); ctx.moveTo(left+cw/2,top); ctx.lineTo(left+cw/2,top+ch); ctx.stroke();
+    }
+
+    function line(canvas, datasets, opts = {}) {
+      const {ctx,w,h} = setup(canvas);
+      const left=54,right=18,top=18,bottom=34,cw=w-left-right,ch=h-top-bottom;
+      ctx.strokeStyle=C.grid; ctx.lineWidth=1;
+      for(let i=0;i<=5;i++){const p=i/5;ctx.beginPath();ctx.moveTo(left,top+ch-p*ch);ctx.lineTo(left+cw,top+ch-p*ch);ctx.stroke();}
+      datasets.forEach((ds,di)=>{
+        ctx.strokeStyle=ds.color || [C.accent,C.slate,C.text2][di%3];
+        ctx.lineWidth=1.8; ctx.beginPath();
+        ds.points.forEach((p,i)=>{const px=left+p.x*cw,py=top+ch-p.y*ch;i?ctx.lineTo(px,py):ctx.moveTo(px,py);});
+        ctx.stroke();
+      });
+      ctx.fillStyle=C.text3;ctx.textAlign="center";
+      ctx.fillText(opts.xTitle||"0",left,top+ch+20);ctx.fillText("1",left+cw,top+ch+20);
+      ctx.textAlign="right";ctx.fillText("1",left-8,top+4);ctx.fillText("0",left-8,top+ch+3);
+    }
+
+    function donut(canvas, overview) {
+      const {ctx,w,h}=setup(canvas);
+      const cx=w/2,cy=h/2-8,r=Math.min(w,h)*.30;
+      const total=Math.max(1,overview.placed+overview.not_placed);
+      let a=-Math.PI/2;
+      [[overview.placed,C.accent],[overview.not_placed,"#3A403B"]].forEach(([v,color])=>{
+        const end=a+v/total*Math.PI*2;ctx.beginPath();ctx.moveTo(cx,cy);ctx.arc(cx,cy,r,a,end);ctx.closePath();ctx.fillStyle=color;ctx.fill();a=end;
+      });
+      ctx.fillStyle=C.panel;ctx.beginPath();ctx.arc(cx,cy,r*.62,0,Math.PI*2);ctx.fill();
+      ctx.fillStyle=C.text;ctx.textAlign="center";ctx.font="700 18px 'IBM Plex Mono',monospace";ctx.fillText(((overview.placed/total)*100).toFixed(1)+"%",cx,cy+5);
+    }
+
+    function buildMissing(canvas,payload){ bar(canvas,payload.chart_labels,payload.chart_values,{fill:C.danger,stroke:C.danger,maxLabels:5,maxBar:60,title:"missing cells"}); }
+    function buildRateBars(canvas,payload){ bar(canvas,payload.labels,payload.rates,{max:100,fill:C.accent,stroke:C.accent,maxLabels:9,maxBar:42}); }
+    function buildInfluence(canvas,payload){ horizontal(canvas,payload.labels,payload.values,{fill:C.accent}); }
+    function buildCategory(canvas,rows){ bar(canvas,rows.map(r=>r.label),rows.map(r=>r.rate),{max:100,fill:C.accent,stroke:C.accent,maxLabels:8}); }
+    function buildGender(canvas,payload){ bar(canvas,payload.labels,payload.placed,{fill:C.accent,stroke:C.accent,maxLabels:8}); }
+    function buildDonut(canvas,overview){ donut(canvas,overview); }
+
+    function buildHistogram(canvas,payload,fill=C.accent,stroke=C.accent){
+      bar(canvas,payload.labels,payload.counts,{fill,stroke,maxLabels:8,maxBar:32});
+    }
+    function buildRoc(canvas,models){
+      line(canvas,models.map((m,i)=>({color:[C.text2,C.slate,C.accent][i%3],points:m.roc.fpr.map((x,k)=>({x,y:m.roc.tpr[k]}))})),{xTitle:"false-positive rate"});
+    }
+    function buildCalibration(canvas,models){
+      line(canvas,models.map((m,i)=>({color:[C.text2,C.slate,C.accent][i%3],points:m.reliability.bin_mid.map((x,k)=>({x,y:m.reliability.frac_pos[k]}))})),{xTitle:"mean predicted probability"});
+    }
+    function buildBenchmark(canvas,models){
+      const labels=["Accuracy","Precision","Recall","F1","ROC-AUC"];
+      const {ctx,w,h}=setup(canvas); const left=58,right=18,top=18,bottom=38,cw=w-left-right,ch=h-top-bottom;
+      grid(ctx,left,top,cw,ch,1);
+      const group=cw/labels.length, bw=Math.min(18,group/(models.length+2));
+      models.forEach((m,mi)=>labels.forEach((_,i)=>{
+        const keys=["accuracy","precision","recall","f1","roc_auc"];
+        const v=Number(m.metrics[keys[i]]); const bh=v*ch;
+        const bx=left+i*group+group/2+(mi-(models.length-1)/2)*(bw+3)-bw/2;
+        ctx.fillStyle=[C.text2,C.slate,C.accent][mi%3];ctx.globalAlpha=.72;ctx.fillRect(bx,top+ch-bh,bw,bh);ctx.globalAlpha=1;
+      }));
+      xLabels(ctx,labels,left,top+ch+24,cw,5);
+    }
+    function buildAllFallback(){
+      document.querySelectorAll("canvas[data-chart]").forEach(canvas=>{
+        const kind=canvas.dataset.chart,key=canvas.dataset.key;
+        try{
+          if(kind==="hist"&&EDA.histograms)buildHistogram(canvas,EDA.histograms[key]);
+          else if(kind==="donut"&&EDA.overview)buildDonut(canvas,EDA.overview);
+          else if(kind==="ratefeat"&&EDA.rateByFeature)buildRateBars(canvas,EDA.rateByFeature[key]);
+          else if(kind==="std"&&EDA.standardized)buildHistogram(canvas,EDA.standardized[key],C.slate,C.slate);
+          else if(kind==="missing"&&EDA.missing)buildMissing(canvas,EDA.missing);
+          else if(kind==="influence"&&EDA.influence)buildInfluence(canvas,EDA.influence);
+          else if(kind==="cat"&&EDA.categories)buildCategory(canvas,EDA.categories[key]);
+          else if(kind==="gender"&&EDA.gender_split)buildGender(canvas,EDA.gender_split);
+          else if(kind==="roc"&&EDA.models)buildRoc(canvas,EDA.models);
+          else if(kind==="calibration"&&EDA.models)buildCalibration(canvas,EDA.models);
+          else if(kind==="importance"&&EDA.importance)buildInfluence(canvas,EDA.importance);
+          else if(kind==="benchmark"&&window.MODEL_PAGE?.models)buildBenchmark(canvas,window.MODEL_PAGE.models);
+        }catch(err){console.error("fallback chart failed:",kind,key||"",err);}
+      });
+    }
+    window.PPCharts={buildRoc,buildBenchmark,buildCalibration,buildHistogram,buildRateBars,buildDonut,palette:{
+      accentFill:"rgba(217,166,63,.55)",accent:C.accent
+    }};
+    const ready=()=>buildAllFallback();
+    if(document.fonts?.ready) document.fonts.ready.then(ready); else ready();
+    return;
+  }
 
   const EDA = window.EDA || {};
 
